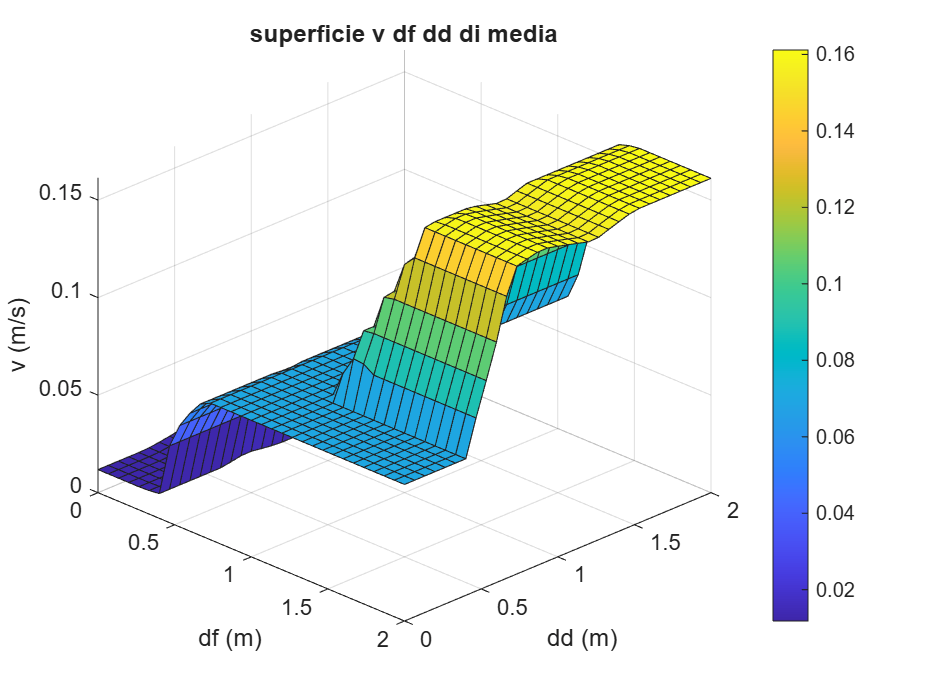
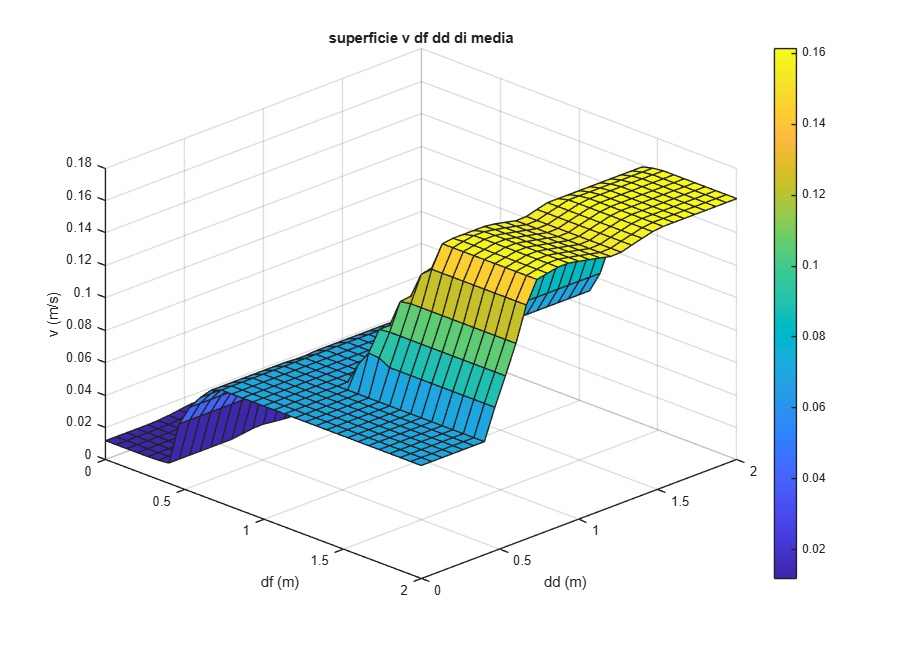
fix(avance2): reparar evidencias PNG y scripts Fase 1

diff --git a/matlab/A2_MAMDANI/A2_F1_reparar_png.m b/matlab/A2_MAMDANI/A2_F1_reparar_png.m
@@ -1,0 +1,181 @@
+
+%% A2 - REPARACION DE EVIDENCIAS PNG
+% No modifica el controlador ni las 27 reglas.
+
+clearvars; clc; close all;
+
+fis = readfis("AMR_Mamdani_A2_v01.fis");
+
+assert(numel(fis.Inputs)==3);
+assert(numel(fis.Outputs)==2);
+assert(numel(fis.Rules)==27);
+
+carpeta = "evidencias_reparadas";
+
+if ~isfolder(carpeta)
+    mkdir(carpeta);
+end
+
+%% PRUEBA PREVIA: escritura de un PNG independiente
+
+ruta = fullfile(carpeta,"prueba_escritura.png");
+imagen = uint8(randi([0 255],64,64,3));
+
+imwrite(imagen,ruta,"png");
+imfinfo(ruta);
+imread(ruta);
+
+disp("[OK] Escritura PNG independiente validada.");
+delete(ruta);
+
+%% 1. FUNCIONES DE MEMBRESIA
+
+entradas = ["df","di","dd"];
+salidas = ["v","omega"];
+
+nombres = strings(9,1);
+contador = 0;
+
+for k = 1:5
+
+    if k <= 3
+        nombre = "entrada_"+entradas(k)+".png";
+        tipo = "input";
+        indice = k;
+    else
+        indice = k-3;
+        nombre = "salida_"+salidas(indice)+".png";
+        tipo = "output";
+    end
+
+    f = figure("Name",nombre,"Color","w", ...
+        "Position",[100 100 900 650]);
+
+    plotmf(fis,tipo,indice);
+    grid on;
+    title(strrep(nombre,"_"," "));
+
+    drawnow;
+
+    % Capturar pixeles sin usar exportgraphics
+    captura = getframe(f);
+
+    assert(~isempty(captura.cdata), ...
+        "No se pudo capturar la figura.");
+
+    ruta = fullfile(carpeta,nombre);
+    imwrite(captura.cdata,ruta,"png");
+
+    imfinfo(ruta);
+    imread(ruta);
+
+    contador = contador+1;
+    nombres(contador) = nombre;
+
+    fprintf("[OK] %s\n",nombre);
+    close(f);
+end
+
+%% 2. SUPERFICIES DE CONTROL
+
+pares = {
+    [1 2]
+    [2 3]
+    [2 3]
+    [1 3]
+};
+
+indicesSalida = [1;2;2;1];
+
+referencias = {
+    [NaN NaN 1.7]
+    [0.2 NaN NaN]
+    [1.7 NaN NaN]
+    [NaN 0.9 NaN]
+};
+
+nombresSuperficie = [
+    "superficie_v_df_di_dd_lejos"
+    "superficie_omega_di_dd_df_cerca"
+    "superficie_omega_di_dd_df_lejos"
+    "superficie_v_df_dd_di_media"
+];
+
+for k = 1:4
+
+    opt = gensurfOptions;
+    opt.InputIndex = pares{k};
+    opt.OutputIndex = indicesSalida(k);
+    opt.ReferenceInputs = referencias{k};
+    opt.NumGridPoints = 31;
+    opt.NumSamplePoints = 1001;
+
+    [X,Y,Z] = gensurf(fis,opt);
+
+    assert(all(isfinite(Z),"all"), ...
+        "Superficie con valores invalidos.");
+
+    f = figure("Color","w", ...
+        "Position",[100 100 900 650]);
+
+    surf(X,Y,Z);
+    grid on;
+    colorbar;
+    view(45,30);
+
+    xlabel(entradas(pares{k}(1))+" (m)");
+    ylabel(entradas(pares{k}(2))+" (m)");
+
+    if indicesSalida(k)==1
+        zlabel("v (m/s)");
+    else
+        zlabel("omega (rad/s)");
+    end
+
+    title(strrep(nombresSuperficie(k),"_"," "));
+
+    drawnow;
+
+    captura = getframe(f);
+
+    assert(~isempty(captura.cdata), ...
+        "No se pudo capturar la superficie.");
+
+    nombre = nombresSuperficie(k)+".png";
+    ruta = fullfile(carpeta,nombre);
+
+    imwrite(captura.cdata,ruta,"png");
+
+    imfinfo(ruta);
+    imread(ruta);
+
+    contador = contador+1;
+    nombres(contador) = nombre;
+
+    fprintf("[OK] %s\n",nombre);
+    close(f);
+end
+
+%% 3. VALIDACION FINAL
+
+disp("=== VALIDACION DE EVIDENCIAS ===");
+
+for k = 1:numel(nombres)
+
+    ruta = fullfile(carpeta,nombres(k));
+
+    info = imfinfo(ruta);
+    img = imread(ruta);
+
+    assert(~isempty(img));
+
+    fprintf("[OK] %s: %d x %d\n", ...
+        nombres(k),info.Width,info.Height);
+end
+
+assert(contador==9);
+
+disp("=== RESULTADO ===");
+disp("[OK] 9 de 9 imagenes verificadas.");
+disp("[OK] Controlador original intacto.");
+disp("[OK] Evidencias en carpeta nueva.");

diff --git a/matlab/A2_MAMDANI/A2_F1_membresias.m b/matlab/A2_MAMDANI/A2_F1_membresias.m
@@ -103,25 +103,35 @@ if ~isfolder("evidencias")
 end
 
 for k = 1:3
-    f = figure("Name","Entrada "+entradas(k));
+    f = figure("Name","Entrada "+entradas(k), "Color","w");
     plotmf(fis,"input",k);
     grid on;
     title("Membresias de "+entradas(k));
 
-    exportgraphics(f,fullfile("evidencias", ...
-        "entrada_"+entradas(k)+".png"),Resolution=160);
+    drawnow;
+    pause(0.2);
+
+    exportgraphics(gca, fullfile("evidencias", ...
+        "entrada_"+entradas(k)+".png"), ...
+        "Resolution",160);
+    close(f);
 end
 
 salidas = ["v", "omega"];
 
 for k = 1:2
-    f = figure("Name","Salida "+salidas(k));
+    f = figure("Name","Salida "+salidas(k), "Color","w");
     plotmf(fis,"output",k);
     grid on;
     title("Membresias de "+salidas(k));
 
-    exportgraphics(f,fullfile("evidencias", ...
-        "salida_"+salidas(k)+".png"),Resolution=160);
+    drawnow;
+    pause(0.2);
+
+    exportgraphics(gca, fullfile("evidencias", ...
+        "salida_"+salidas(k)+".png"), ...
+        "Resolution",160);
+    close(f);
 end
 
 save("A2_F1_membresias_base.mat","fis");

diff --git a/matlab/A2_MAMDANI/A2_F1_superficies.m b/matlab/A2_MAMDANI/A2_F1_superficies.m
@@ -75,6 +75,16 @@ for k = 1:numel(nombres)
     xlabel(entradaNombres(pares{k}(1))+" (m)");
     ylabel(entradaNombres(pares{k}(2))+" (m)");
 
+    f = figure("Name",nombres(k), "Color","w");
+
+    surf(X,Y,Z);
+    grid on;
+    colorbar;
+    view(45,30);
+
+    xlabel(entradaNombres(pares{k}(1))+" (m)");
+    ylabel(entradaNombres(pares{k}(2))+" (m)");
+
     if salidas(k)==1
         zlabel("v (m/s)");
     else
@@ -83,9 +93,12 @@ for k = 1:numel(nombres)
 
     title(strrep(nombres(k),"_"," "));
 
-    exportgraphics(f, ...
+    drawnow;
+    pause(0.2);
+
+    exportgraphics(gca, ...
         fullfile("evidencias",nombres(k)+".png"), ...
-        Resolution=160);
+        "Resolution",160);
 
     fprintf("[OK] %s\n",nombres(k));
     fprintf("     Salida minima: %.6f\n",min(Z(:)));

diff --git a/matlab/A2_MAMDANI/A2_F1_cierre.m b/matlab/A2_MAMDANI/A2_F1_cierre.m
@@ -81,7 +81,9 @@ resumen = [
 
 archivoResumen = "A2_F1_resumen_tecnico.md";
 
-if ~isfile(archivoResumen)
+assert(~isfile(archivoResumen), ...
+    "El resumen ya existe; no se sobrescribira.");
+
 fid = fopen(archivoResumen,"w");
 assert(fid>0);
 
@@ -89,7 +91,6 @@ for linea = resumen.'
     fprintf(fid,"%s\n",char(linea));
 end
 fclose(fid);
-end
 
 % Incorporar evidencias
 archivos{end+1} = archivoResumen;
@@ -109,7 +110,7 @@ nombreZIP = "A2_F1_cierre_20261106.zip";
 assert(~isfile(nombreZIP), ...
     "El ZIP ya existe; no se sobrescribira.");
 
-zip(char(nombreZIP), cellfun(@char, archivos, "UniformOutput", false));
+zip(char(nombreZIP),cellstr(string(archivos)));
 
 disp("=== CIERRE FASE 1 ===")
 fprintf("[OK] Reglas: %d/27\n",numel(fis.Rules));
